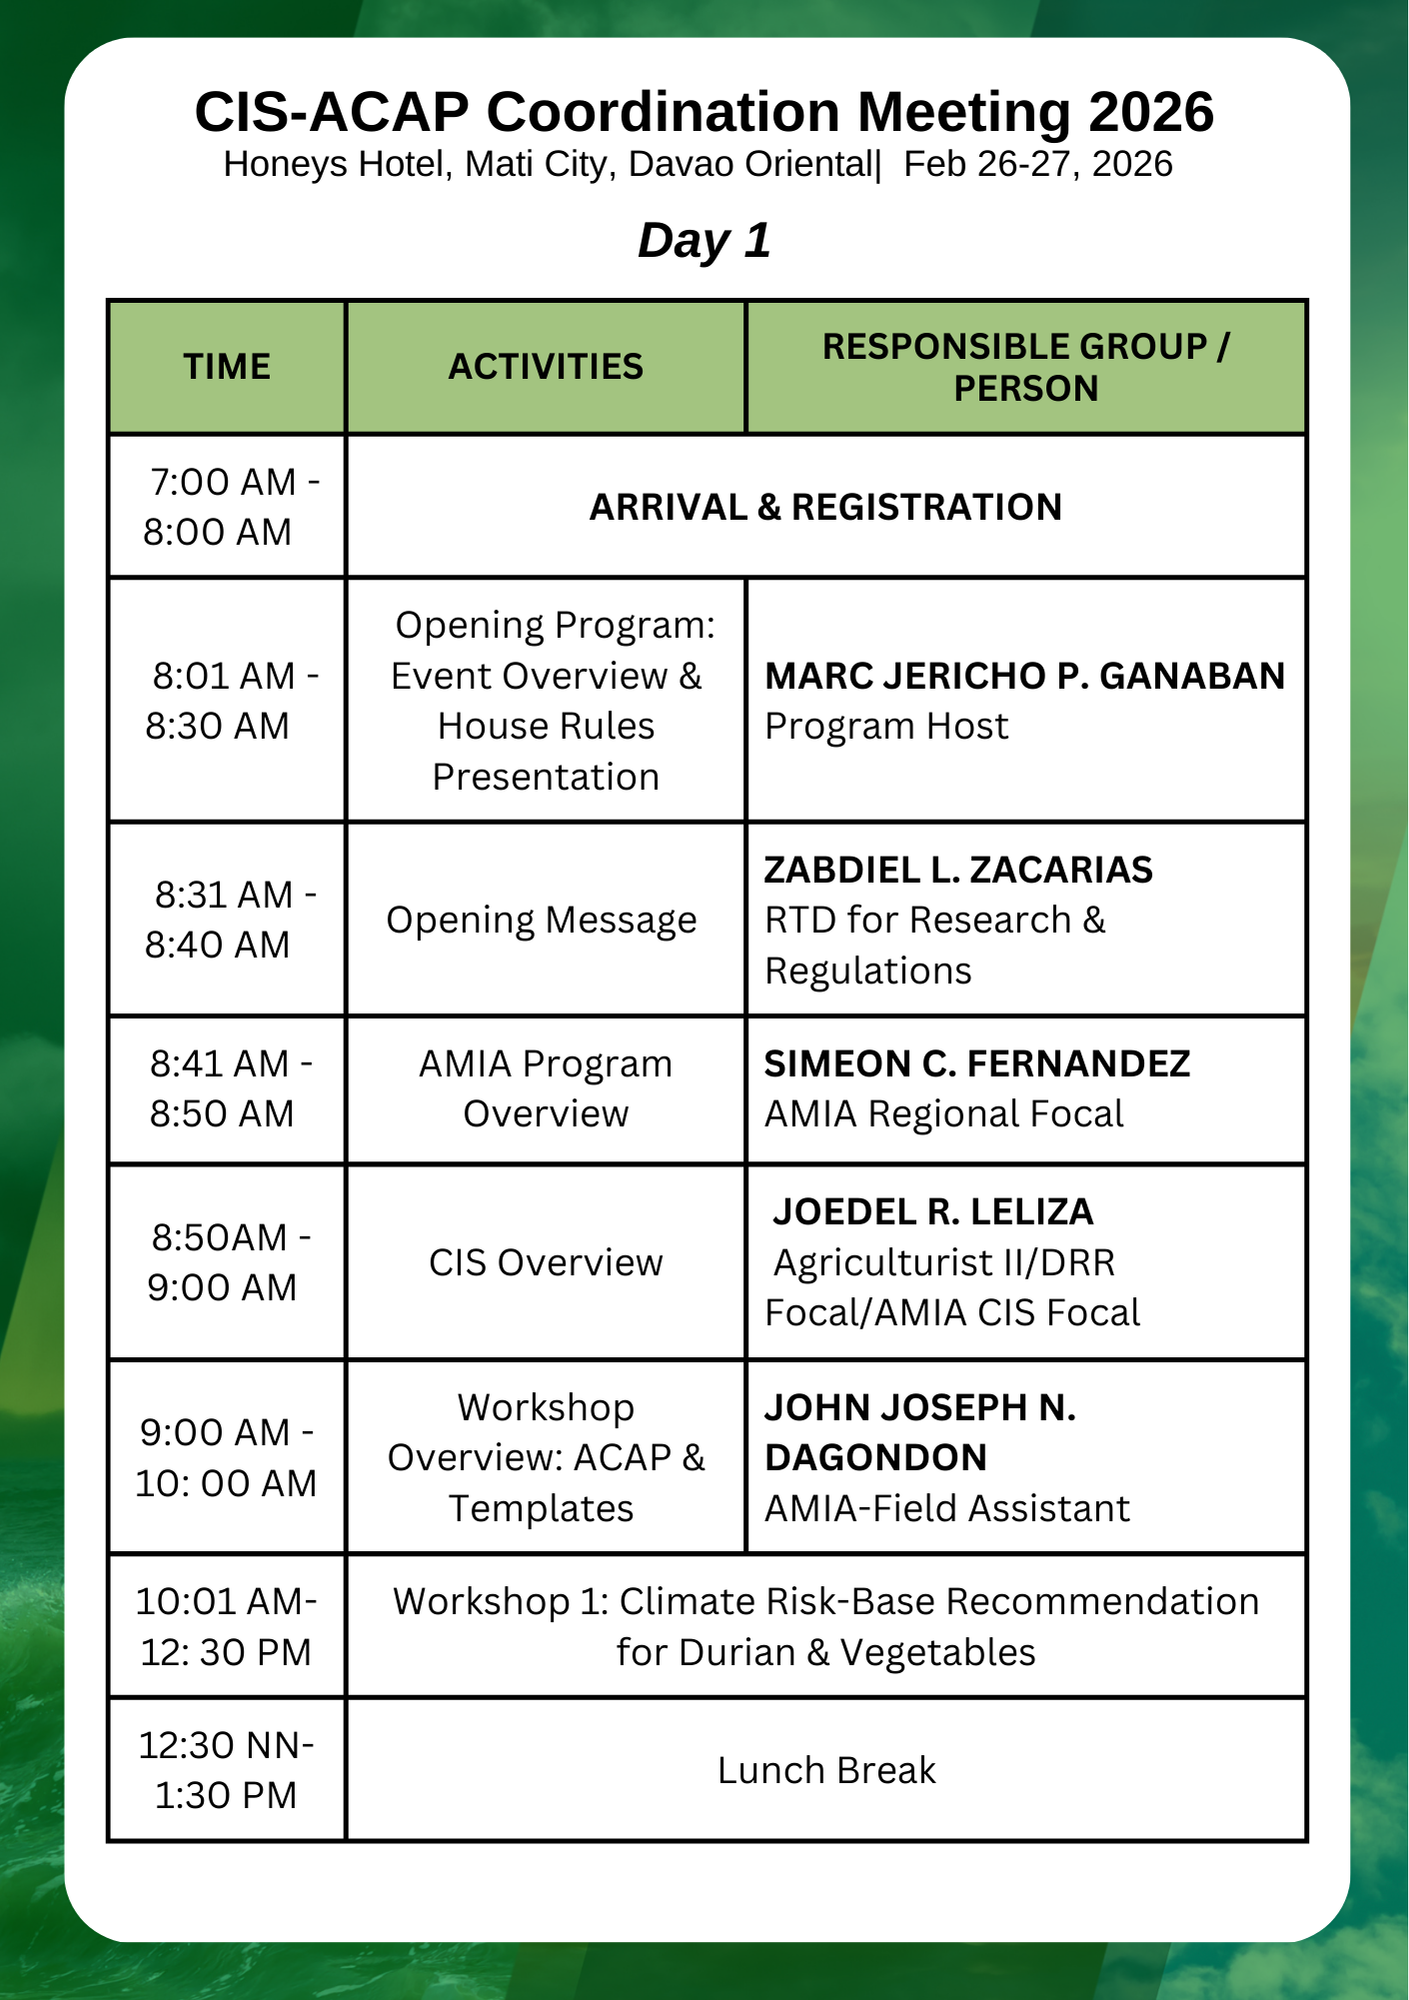
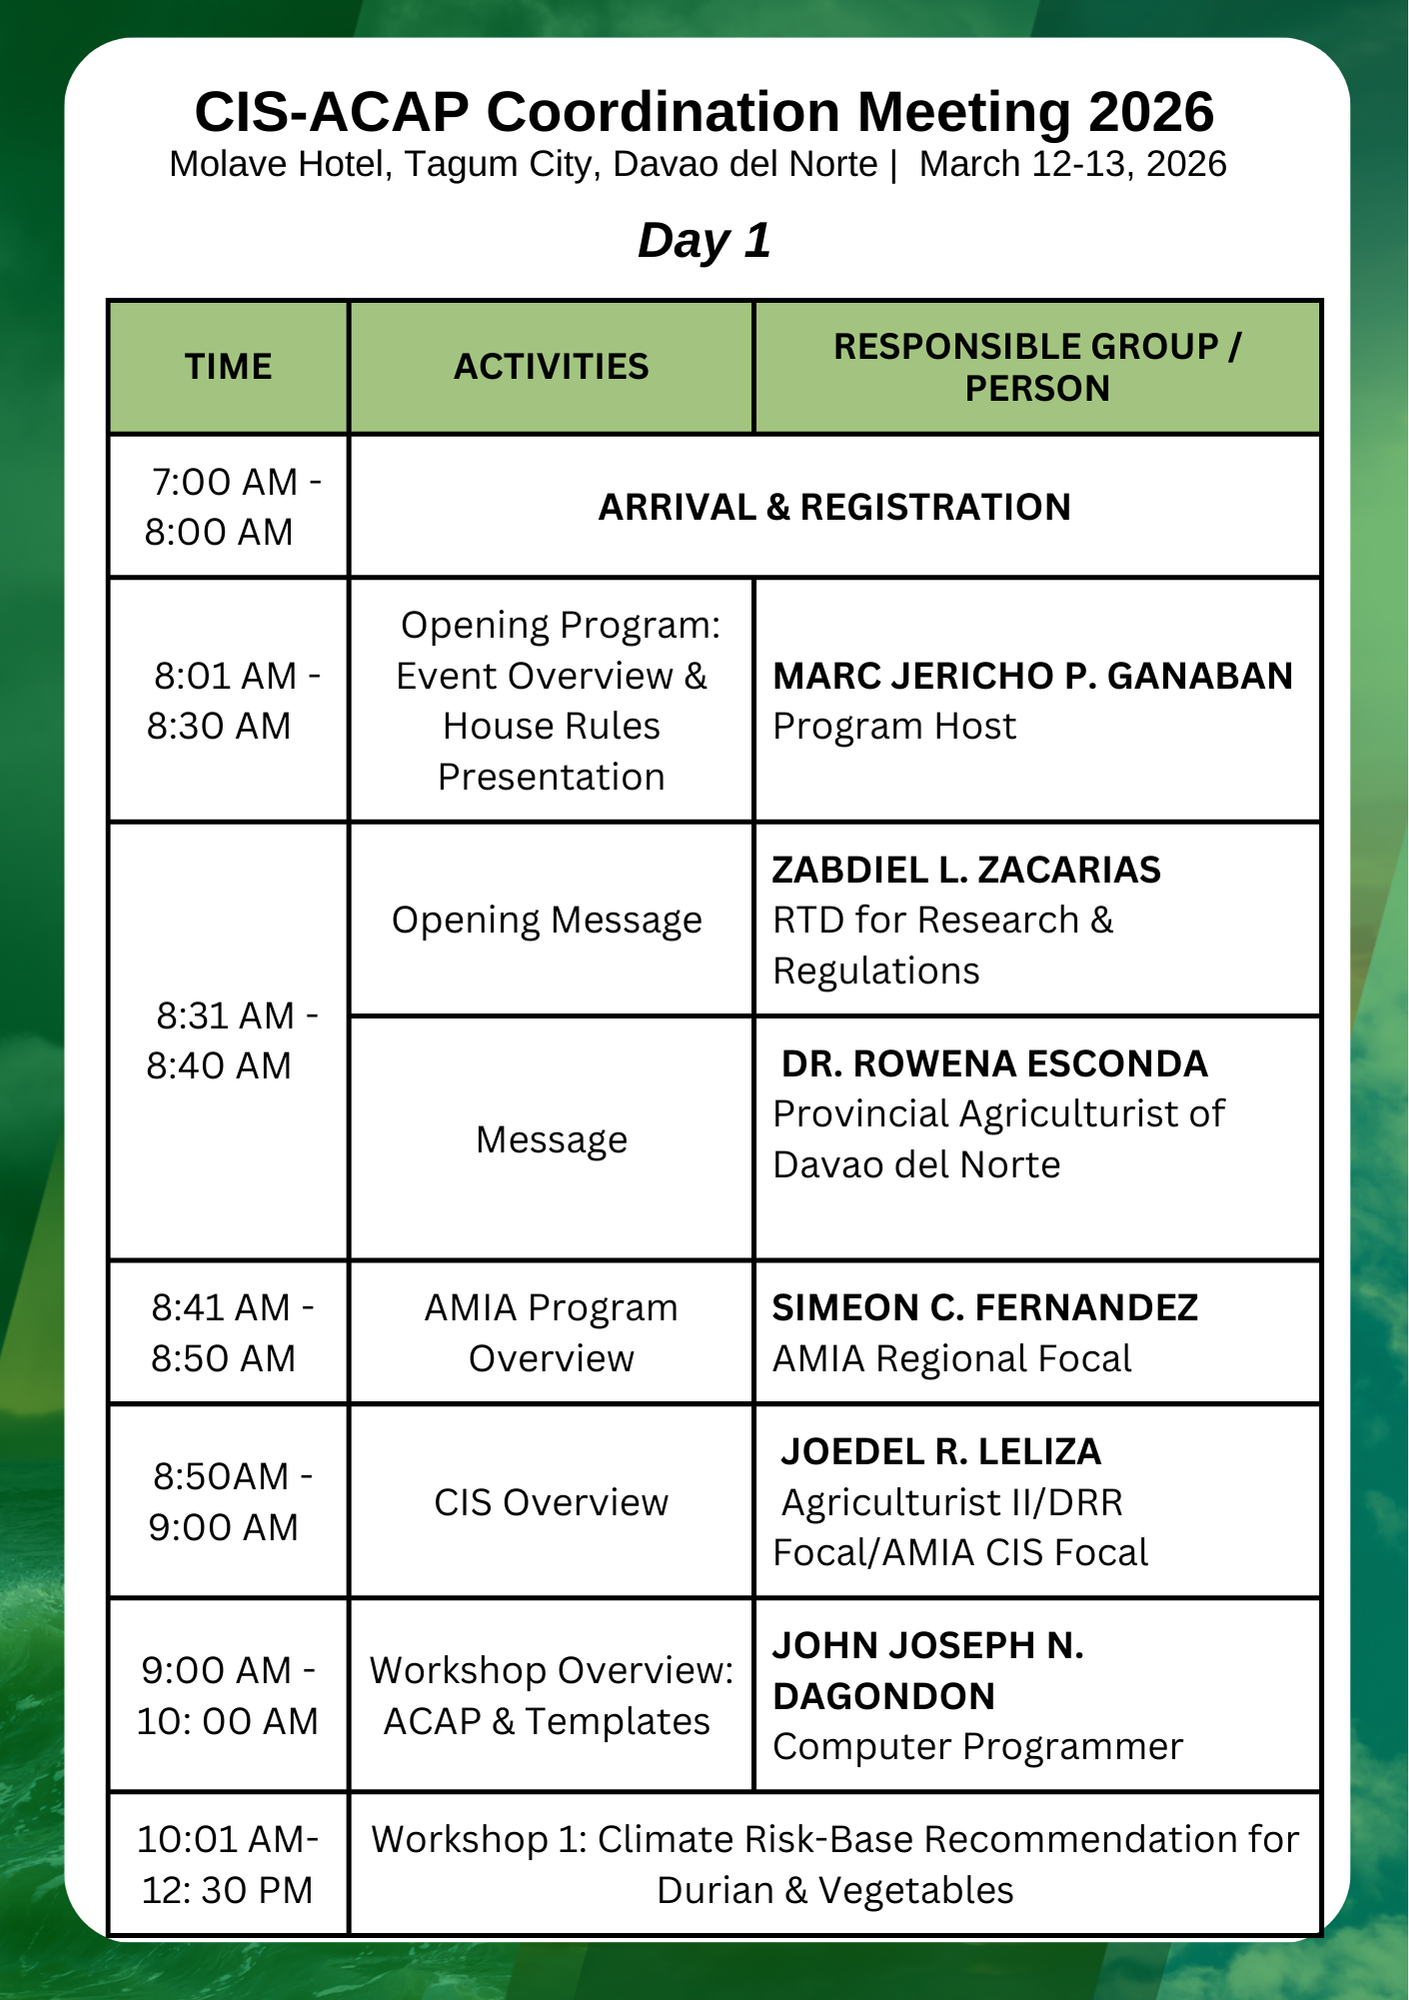
Update event details in index.html and replace program images for the 2026 Coordination Meeting.

diff --git a/index.html b/index.html
@@ -197,7 +197,7 @@
                   CIS - ACAP Coordination Meeting 2026
                 </h2>
                 <p class="section-subtitle">
-                  Honeys Hotel, Mati City, Davao Oriental | February 26-27, 2026
+                  Molave Hotel, Tagum City, Davao del Norte | March 12-13, 2026
                 </p>
               </div>
             </div>
